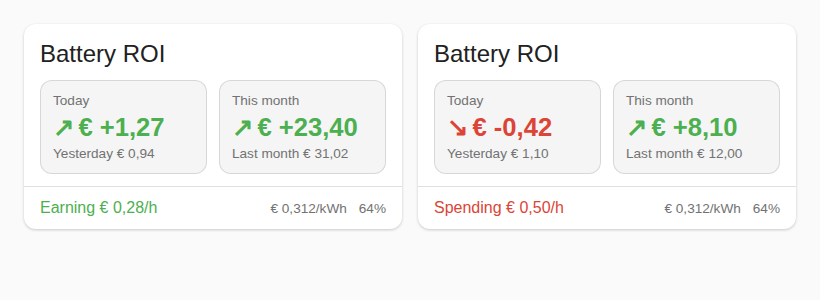
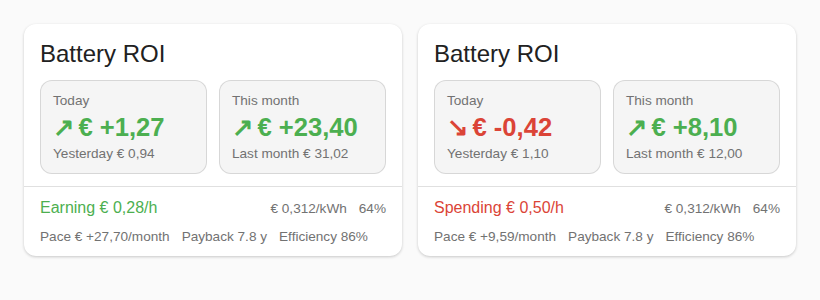
Card: add monthly pace plus optional payback and efficiency sensors
Claude-Session: https://claude.ai/code/session_01PiGiPtXKiLnKVAJBQztQsV

diff --git a/battery-roi-card.js b/battery-roi-card.js
@@ -15,6 +15,8 @@ const DEFAULTS = {
   rate: "sensor.battery_roi_rate",
   soc: "sensor.battery_roi_state_of_charge",
   price: "sensor.battery_roi_price",
+  payback: null,
+  efficiency: null,
   currency: "EUR",
 };
 
@@ -57,6 +59,19 @@ class BatteryRoiCard extends LitElement {
     return value > 0 ? "up" : "down";
   }
 
+  // Month-to-date profit projected over the whole month, using the exact
+  // time elapsed and this month's real length. Hidden in the first day,
+  // when a few hours of data would be blown up 30x.
+  _pace(monthly) {
+    if (monthly === null) return null;
+    const now = new Date();
+    const start = new Date(now.getFullYear(), now.getMonth(), 1);
+    const end = new Date(now.getFullYear(), now.getMonth() + 1, 1);
+    const elapsed = now - start;
+    if (elapsed < 86400000) return null;
+    return (monthly * (end - start)) / elapsed;
+  }
+
   _moreInfo(entityId) {
     this.dispatchEvent(
       new CustomEvent("hass-more-info", {
@@ -91,6 +106,9 @@ class BatteryRoiCard extends LitElement {
     const rate = this._num(c.rate);
     const soc = this._num(c.soc);
     const price = this._num(c.price);
+    const pace = this._pace(this._num(c.monthly));
+    const payback = c.payback ? this._num(c.payback) : null;
+    const efficiency = c.efficiency ? this._num(c.efficiency) : null;
     const rateTrend = this._trend(rate);
     const rateText =
       rateTrend === "flat" ? "Idle" : rateTrend === "up" ? "Earning" : "Spending";
@@ -110,6 +128,13 @@ class BatteryRoiCard extends LitElement {
             ${soc === null ? nothing : html`<span>${Math.round(soc)}%</span>`}
           </span>
         </div>
+        ${pace === null && payback === null && efficiency === null
+          ? nothing
+          : html`<div class="outlook">
+              ${pace === null ? nothing : html`<span>Pace ${this._money(pace, { signed: true })}/month</span>`}
+              ${payback === null ? nothing : html`<span>Payback ${payback.toFixed(1)} y</span>`}
+              ${efficiency === null ? nothing : html`<span>Efficiency ${Math.round(efficiency)}%</span>`}
+            </div>`}
       </ha-card>
     `;
   }
@@ -173,9 +198,16 @@ class BatteryRoiCard extends LitElement {
       font-weight: 500;
       font-variant-numeric: tabular-nums;
     }
-    .meta {
+    .meta,
+    .outlook {
       display: flex;
       gap: 12px;
+    }
+    .outlook {
+      flex-wrap: wrap;
+      padding: 0 16px 12px;
+      color: var(--secondary-text-color);
+      font-size: 0.85em;
     }
   `;
 }

diff --git a/README.md b/README.md
@@ -38,7 +38,13 @@ Not included: battery wear, and the difference between import and feed‑in pric
    ```yaml
    type: custom:battery-roi-card
    ```
-   Optional keys: `title`, `daily`, `monthly`, `rate`, `soc`, `price`, `currency` (default `EUR`).
+   Optional keys: `title`, `daily`, `monthly`, `rate`, `soc`, `price`, `currency` (default `EUR`), and `payback` / `efficiency` to show sensors you already have, for example:
+   ```yaml
+   type: custom:battery-roi-card
+   payback: sensor.battery_payback_years
+   efficiency: sensor.battery_measured_efficiency
+   ```
+   The card also shows a monthly pace: month-to-date profit scaled by the exact time elapsed and the real length of the month, hidden on the 1st.
 
 The card uses only Home Assistant theme variables (`--success-color`, `--error-color`, `--primary-text-color`, ...), so it follows your theme and dark mode.
 
